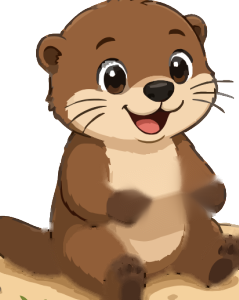
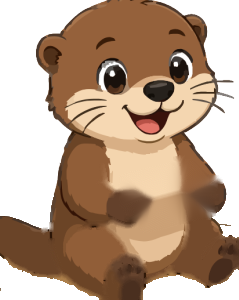
Bloppitopia: otter sits on land, island names everywhere (#31)
- The otter no longer floats off the end of the jetty: it sits beside Bloppit on
  the first spot that is actually on the island (on the beach by the jetty while
  Bloppit fishes, clear of the fishing line).
- The otter art had a patch of sand baked into its bottom that showed as a
  square in 3D; cut out (art URL versioned so devices fetch the new one).
- The sea card, the drawn island (no WebGL), the jetty card and old links now use
  the five real islands: Otterwood, Brainpeak, Sunrise Shores, Blitz Bay,
  Brickworks Island, with the same counts as the 3D world. No more Weekly Ferry,
  Creator Workshop, Brain Island, Friendship Harbour or Blitz Speedway.
- bloppit.com's Bloppitopia card and the 1.1 App Store text describe the new
  world (otter arrives, Home Island, five islands, outfits).

Claude-Session: https://claude.ai/code/session_01SsDm8i8RYP4fD1LfrBDVAG

Changed region(s): [[0.5858, 0.9, 1.0, 1.0], [0.0, 0.84, 0.41, 1.0], [0.9079, 0.72, 1.0, 0.81]]

diff --git a/public/build/index.html b/public/build/index.html
@@ -1144,7 +1144,7 @@ body.on-home .tabs{visibility:hidden}
           <input type="radio" name="kind" id="kd-picture" value="picture"><label for="kd-picture">Picture</label>
         </div>
         <p class="note pic-only" style="margin:6px 0 0">A flat mosaic of tiles that looks like your photo, made on this device. The more tiles, the more lifelike.</p>
-        <p class="note photo-only" id="photo3dNote" style="margin:6px 0 0" hidden>Photos become brick pictures for now. 3D photo models are coming to the Creator Workshop.</p>
+        <p class="note photo-only" id="photo3dNote" style="margin:6px 0 0" hidden>Photos become brick pictures for now. 3D photo models are coming to Brickworks Island.</p>
       </div>
       <div class="field pic-only">
         <label for="pw">Detail <output id="pwOut"></output></label>
@@ -2444,7 +2444,7 @@ function addFiles(files){
   const imgs=[...files].filter(f=>f.type.startsWith('image/')); if(!imgs.length) return;
   track('creator_started');
   photos=photos.filter(p=>!p.sample);
-  // Q4: a photo becomes a brick picture (a mosaic made on this device). 3D photo models are off until the Creator Workshop.
+  // Q4: a photo becomes a brick picture (a mosaic made on this device). 3D photo models are off for now.
   if(S.kind!=='picture'){ S.kind='picture'; syncKind(); refreshHint(); }
   let left=imgs.length;
   imgs.forEach(f=>{
@@ -5845,7 +5845,7 @@ function pupBrick(n,ci){ const c=(PUP_COLORS[ci]||PUP_COLORS[0]).c, B=PUP_BRICK,
 var PUP_ROUND='-16 -38 272 272';  // a round badge: head and brick both inside the circle
 function pupColorOf(o){ return o&&Number.isInteger(o.pupColor)&&o.pupColor>=0&&o.pupColor<PUP_COLORS.length?o.pupColor:0; }
 // The layers alone (for the island, which places them itself), and as a picture. opt: ci colour, n studs, vb crop.
-function pupLayers(ci,n,o){ const a=o?accSVG(o):{under:'',over:''}; return `<image href="/art/pup-body.png" width="239" height="300"/>${a.under}${pupBrick(n,ci)}<image href="/art/pup-paws.png" width="239" height="300"/>${a.over}`; }
+function pupLayers(ci,n,o){ const a=o?accSVG(o):{under:'',over:''}; return `<image href="/art/pup-body.png?v=2" width="239" height="300"/>${a.under}${pupBrick(n,ci)}<image href="/art/pup-paws.png" width="239" height="300"/>${a.over}`; }
 function pupFig(o,opt){ opt=opt||{}; const ci=opt.ci!=null?opt.ci:pupColorOf(o), n=opt.n||(o&&o.log?pupStage(o)+1:1);
   return `<svg class="pupfig${opt.cls?' '+opt.cls:''}" viewBox="${opt.vb||'0 -40 239 340'}" preserveAspectRatio="${opt.par||'xMidYMid meet'}" aria-hidden="true" focusable="false">${pupLayers(ci,n,o)}</svg>`; }
 // A name the child typed: letters in any language, spaces, ' and -, at most 14 characters (same rule as the server)
@@ -6062,15 +6062,15 @@ function decorSVG(id,x,y){
   }
   return '';
 }
-// The islands nearby, in a row across the sea below Bloppitopia (x centres), Friendship Harbour by the jetty
-const NEARBY_AT={ferry:110,workshop:300,brain:500,speedway:694,harbour:893};
+// The five islands, in a row across the sea below Bloppitopia (x centres), Otterwood by the jetty
+const NEARBY_AT={sunrise:110,brickworks:300,brainpeak:500,blitzbay:694,otterwood:893};
 function islandsNearby(){
   const P=[];
   P.push('<g fill="none" stroke="#fff" stroke-width="3" stroke-dasharray="2 9" stroke-linecap="round" opacity=".65" pointer-events="none">'
     +Object.values(NEARBY_AT).map(x=>{ const [tx,ty]=x===890?[958,476]:[Math.max(200,Math.min(820,x)),552]; return `<path d="M${x} 610 Q ${(x+tx)/2} ${(610+ty)/2+6} ${tx} ${ty}"/>`; }).join('')+'</g>');
   for(const d of destinations()){ const x=NEARBY_AT[d.id]; if(x==null) continue;
-    const art=destSVG(d.id,d.st).replace(/^<svg[^>]*>|<\/svg>$/g,'').replace('<rect y="56" width="72" height="16" fill="#5FAEE6" opacity=".6"/>','');
-    P.push(`<g class="is-near" data-info="dest:${d.id}">
+    const art=destSVG(d.art,d.st).replace(/^<svg[^>]*>|<\/svg>$/g,'').replace('<rect y="56" width="72" height="16" fill="#5FAEE6" opacity=".6"/>','');
+    P.push(`<g class="is-near" data-info="isle:${d.id}">
       <ellipse cx="${x}" cy="684" rx="86" ry="22" fill="#8FD0EC" opacity=".8"/><ellipse cx="${x}" cy="680" rx="74" ry="17" fill="#E3C99A"/><ellipse cx="${x}" cy="677" rx="70" ry="14" fill="#F1DFBC"/>
       <g transform="translate(${x-79} 545) scale(2.2)">${art}</g>
       <g transform="translate(${x} 702)"><rect x="${-(d.name.length*5.2+12)}" y="-16" width="${d.name.length*10.4+24}" height="30" rx="15" fill="#14202C" opacity=".85"/><text x="0" y="5" text-anchor="middle" font-family="Nunito,sans-serif" font-weight="800" font-size="19" fill="#fff">${escapeHTML(d.name.replace("Friendship ","Friendship "))}</text></g></g>`); }
@@ -6160,7 +6160,7 @@ function islandSVG(o,opts){
   P.push(`<g data-info="bloppit"><ellipse cx="${bx}" cy="${by+2}" rx="26" ry="6" fill="#000" opacity=".12"/><image href="/art/bud-3q.png" x="${bx-36}" y="${by-96}" width="72" height="96" preserveAspectRatio="xMidYMax meet"/></g>`);
   if(n>0) P.push(`<g data-info="pup"><ellipse cx="${bx+54}" cy="${by+2}" rx="${ph*.34}" ry="5" fill="#000" opacity=".12"/><g class="is-bob"><g transform="translate(${(bx+54-ph*.4+(ph*.8-239*ph/300)/2).toFixed(1)} ${by-ph}) scale(${(ph/300).toFixed(4)})">${pupLayers(pupColorOf(o),ps+1,o)}</g></g></g>`);
   if(stage===0) P.push('<g transform="translate(250 372)"><rect x="-74" y="-30" width="148" height="40" rx="12" fill="#fff" stroke="#14202C" stroke-width="2"/><path d="M-30 10 l-12 14 l24 -14z" fill="#fff" stroke="#14202C" stroke-width="2"/><rect x="-29" y="8" width="22" height="4" fill="#fff"/><text x="0" y="-4" text-anchor="middle" font-family="Nunito,sans-serif" font-weight="800" font-size="15" fill="#14202C">Finish a build!</text></g>');
-  // The islands nearby, out in the sea: each drawn at its stage, with a dotted boat route home
+  // The five islands, out in the sea: each drawn at its stage, with a dotted boat route home
   P.push(islandsNearby());
   let out=`<svg viewBox="0 0 1000 720" xmlns="http://www.w3.org/2000/svg" xmlns:xlink="http://www.w3.org/1999/xlink" aria-label="Bloppitopia at the ${ISLAND_STAGES[stage].name} stage">${P.join('')}</svg>`;
   // A second copy on the page (the menu's) gets its own ids, so its gradients never point into a hidden copy
@@ -6250,9 +6250,7 @@ function islandInfo(id,o){
       if(arg==='hut') return place(1,'The hut','Your first model stand');
       if(arg==='workshop') return place(2,'Bloppit’s workshop','Three model stands, and paths across the island');
       if(arg==='village') return place(3,'The village','Twelve model stands, the well, the bunting and the jetty');
-      if(arg==='jetty'){ const d=destinations().find(x=>x.id==='harbour'); return {title:'The jetty',hint:`Boats to Friendship Harbour · ${d.names[d.st]}`,
-        rows:[['Goes to','Friendship Harbour, one of the islands nearby'],['Harbour level',`${d.st} of 3: ${d.names[d.st]}`],['Friend builds',String(d.n)],...(d.nx?[['Next',`${d.names[d.st+1]} at ${d.nx}`]]:[])],
-        bar:d.nx?{pct:Math.max(4,Math.round(100*d.n/d.nx)),label:`${d.nx-d.n} more friend build${d.nx-d.n===1?'':'s'}`}:null, actions:[{label:'Go to Friendship Harbour',fn:d.go,primary:true}]}; }
+      if(arg==='jetty'){ const f=friendCount(o); return {title:'The jetty',hint:'Home Island’s harbour',rows:[['Boats','One for every build with a friend'],['Friend builds',String(f)]],actions:[{label:'Build with a friend',fn:()=>setTab('mp','hub'),primary:true}]}; }
       break;
     case 'land': {
       const nx=ISLAND_STAGES[st+1];
@@ -6261,7 +6259,7 @@ function islandInfo(id,o){
         rows:[['Level',`${st} of 3: ${ISLAND_STAGES[st].name}`],['Builds finished',String(n)],['Models standing',`${shown.list.length} of ${shown.cap} stands`],['Decorations',`${(o.decor||[]).length} of ${DECOR.length}`],['Next',nx?`The ${nx.name.toLowerCase()} at ${nx.at} builds`:'Everything is built']],
         bar:nx?bar(ISLAND_STAGES[st].at,nx.at):null, actions:n?[{label:'✨ Decorate',fn:()=>$('#isDecor').click()}]:[]};
       if(arg==='meadow') return {...place(3,'The meadow','Where the village grows'),title:'The meadow',hint:n>=10?'The village stands here':'The village grows here at 10 builds'};
-      if(arg==='sea') return {title:'The sea',hint:'Five islands nearby: tap one',rows:destinations().map(d=>[d.name,`${d.names[d.st]}${d.nx?` · ${d.nx-d.n} to go`:' · fully grown'}`])};
+      if(arg==='sea') return {title:'The sea',hint:'Five islands around Home Island: tap one',rows:destinations().map(d=>[d.name,d.n?(d.st===3?`${d.milestone} ✓`:`${Math.min(d.n,d.total)} of ${d.total}${d.next?` · next: ${d.next}`:''}`):`In the mist · play ${ISLES[d.id].game} to find it`])};
       if(arg==='rocks') return {title:'The rocks',hint:'Crabs like it here',rows:[['Good for','Crabs and rock pools (in the decorations)']],actions:n?[{label:'✨ Decorate',fn:()=>$('#isDecor').click()}]:[]};
       if(arg==='lighthouse') return {title:'The lighthouse',hint:'It lights the way home',rows:[['Stands on','A rock off Bloppitopia'],['Job','Lighting the way home for every boat']]};
       if(arg==='balloon') return {title:'The balloon',hint:'Floating over Bloppitopia',rows:[['Up here','A hot-air balloon, drifting round'],['Tip','Turn the world with one finger, pinch to zoom']]};
@@ -6269,13 +6267,7 @@ function islandInfo(id,o){
       break; }
     case 'decor': { const d=DECOR.find(x=>x.id===arg)||{name:arg,cost:0}, gift=(o.free||[]).includes(arg);
       return {title:d.name,hint:gift?'A gift for a Weekly Bloppit':`Bought for ★ ${d.cost}`,rows:[['How you got it',gift?'A gift for finishing a Weekly Bloppit':`Bought with ${d.cost} Build Stars`],['Decorations',`${(o.decor||[]).length} of ${DECOR.length} on Bloppitopia`]]}; }
-    case 'dest': { const d=destinations().find(x=>x.id===arg); if(!d) break;
-      const grows={ferry:'Every Weekly Bloppit you finish',workshop:'Builds from your own photos and drawings',brain:'Brain Trail levels you finish',harbour:'Builds with friends: challenges, relays and crews',speedway:'Blitz races you win against the Longtails'}[d.id];
-      const go={ferry:'This week’s Bloppit',workshop:'Make your own',brain:'Play the Brain Trail',harbour:'Build with a friend',speedway:'Race a Longtail'}[d.id];
-      return {title:d.name,hint:`${d.names[d.st]} · ${d.n} ${d.unit}${d.n===1?'':'s'}`,icon:destSVG(d.id,d.st),
-        rows:[['Level',`${d.st} of 3: ${d.names[d.st]}`],['Grows with',grows],['So far',`${d.n} ${d.unit}${d.n===1?'':'s'}`],['Next',d.nx?`${d.names[d.st+1]} at ${d.nx}`:'Fully grown']],
-        bar:d.nx?{pct:Math.max(4,Math.round(100*d.n/d.nx)),label:`${d.nx-d.n} more to the ${d.names[d.st+1].toLowerCase()}`}:null,
-        actions:[{label:go,fn:d.go,primary:true}]}; }
+    case 'dest': { const m={ferry:'sunrise',workshop:'brickworks',brain:'brainpeak',speedway:'blitzbay',harbour:'otterwood'}[arg]; if(m) return islandInfo('isle:'+m,o); break; }
     case 'isle': { const I=ISLES[arg]; if(!I) break; const c=isleCount(arg,o), P=PIECES[arg], total=P[P.length-1].at, built=P.filter(x=>c>=x.at), next=P.find(x=>c<x.at);
       if(!c) return {title:'A misty island',hint:`Play ${I.game} to discover it`,rows:[['What’s there','Nobody knows yet. It’s hidden in the mist.'],['To discover it',`Finish your first ${I.unit}`]],actions:[{label:I.play,fn:I.go,primary:true}]};
       return {title:I.name,hint:`${I.game} · ${Math.min(c,total)} of ${total}`,rows:[['Grows with',I.grows],['Built',`${built.length} of ${P.length} pieces`],...(next?[['Next piece',`${next.name}: ${next.at-c} more ${I.unit}${next.at-c===1?'':'s'}`]]:[]),['Milestone',c>=total?`${I.milestone} ✓`:`${I.milestone} at ${total}`]],
@@ -6341,6 +6333,8 @@ function destSVG(id,st){
   const base='<ellipse cx="36" cy="64" rx="30" ry="6" fill="#000" opacity=".1"/><ellipse cx="36" cy="60" rx="30" ry="9" fill="#F1DFBC"/>';
   const sea='<rect y="56" width="72" height="16" fill="#5FAEE6" opacity=".6"/>';
   switch(id){
+    case 'otterwood': { const tree=(x,s2)=>`<g transform="translate(${x} 58) scale(${s2})"><rect x="-2" y="-10" width="4" height="10" fill="#7A4E2E"/><path d="M0 -34 L12 -10 L-12 -10 Z" fill="#3F8F33"/><path d="M0 -42 L9 -22 L-9 -22 Z" fill="#5DBB46"/></g>`;
+      return `<svg viewBox="0 0 72 72">${sea}${base}${tree(18,.8)}${st>=1?tree(54,.8):''}${st>=2?tree(28,1)+tree(46,.9):''}${st>=3?'<g transform="translate(36 40)"><rect x="-9" y="-8" width="18" height="10" fill="#A0663A" stroke="#5A3A20" stroke-width="1"/><path d="M-11 -8 L0 -16 L11 -8 Z" fill="#D2352B"/><rect x="-2" y="-5" width="4" height="7" fill="#5A3A20"/></g>':''}</svg>`; }
     case 'ferry': return `<svg viewBox="0 0 72 72">${sea}<g transform="translate(36 52)"><path d="M-26 0 L26 0 L20 10 L-20 10 Z" fill="#0055BF"/><rect x="-18" y="-12" width="36" height="12" rx="2" fill="#F4F4F4"/>${st>=1?'<rect x="-14" y="-9" width="6" height="5" fill="#6FB7E8"/><rect x="-4" y="-9" width="6" height="5" fill="#6FB7E8"/><rect x="6" y="-9" width="6" height="5" fill="#6FB7E8"/>':''}${st>=2?'<rect x="-6" y="-22" width="12" height="10" rx="2" fill="#008F9B"/><path d="M-30 -2 l-10 -6 M30 -2 l10 -6" stroke="#F4BC22" stroke-width="3"/>':''}${st>=3?'<rect x="2" y="-30" width="2" height="8" fill="#14202C"/><path d="M4 -30 l10 3 l-10 3z" fill="#D2352B"/><g class="is-smoke" fill="#fff" opacity=".7"><circle cx="0" cy="-28" r="4"/></g>':''}</g></svg>`;
     case 'workshop': return `<svg viewBox="0 0 72 72">${base}<g transform="translate(36 58)">${st>=1?'<rect x="-22" y="-26" width="44" height="26" fill="#C58B5A" stroke="#8A5A3B" stroke-width="1.5"/><path d="M-26 -26 L0 -44 L26 -26 Z" fill="#5B6778"/><rect x="-5" y="-14" width="10" height="14" fill="#5B6778"/>':'<rect x="-16" y="-18" width="32" height="18" fill="none" stroke="#B9C2CF" stroke-width="1.5" stroke-dasharray="3 3"/>'}${st>=2?'<rect x="-20" y="-22" width="12" height="9" fill="#FFF0B0" stroke="#8A5A3B"/><rect x="8" y="-22" width="12" height="9" fill="#FFF0B0" stroke="#8A5A3B"/><rect x="12" y="-42" width="6" height="12" fill="#8A5A3B"/>':''}${st>=3?'<g transform="translate(0 -50)"><circle r="6" fill="#F4BC22"/><path d="M0 -9 v-4 M0 9 v4 M-9 0 h-4 M9 0 h4" stroke="#F4BC22" stroke-width="2"/></g><rect x="-30" y="-10" width="8" height="10" fill="#D2352B"/><rect x="22" y="-8" width="8" height="8" fill="#0055BF"/>':''}</g></svg>`;
     case 'brain': return `<svg viewBox="0 0 72 72">${base}<g transform="translate(36 58)">${st>=1?'<rect x="-18" y="-22" width="36" height="22" fill="#FFF8EA" stroke="#C9A96E" stroke-width="1.5"/><path d="M-22 -22 L0 -38 L22 -22 Z" fill="#D2352B"/><rect x="-4" y="-12" width="8" height="12" fill="#8A5A3B"/>':'<rect x="-16" y="-18" width="32" height="18" fill="none" stroke="#B9C2CF" stroke-width="1.5" stroke-dasharray="3 3"/>'}${st>=2?'<rect x="-3" y="-50" width="6" height="12" fill="#5B6778"/><circle cx="0" cy="-52" r="4" fill="#F4BC22"/><rect x="-26" y="-14" width="8" height="14" fill="#FFF8EA" stroke="#C9A96E"/><rect x="18" y="-14" width="8" height="14" fill="#FFF8EA" stroke="#C9A96E"/>':''}${st>=3?'<g transform="translate(22 -40)"><circle r="9" fill="#5B6778"/><path d="M0 -9 A9 9 0 0 1 9 0 L0 0 Z" fill="#14202C"/><rect x="-1" y="-16" width="2" height="8" fill="#14202C" transform="rotate(35)"/></g><circle cx="-22" cy="-46" r="1.5" fill="#F4BC22"/><circle cx="-14" cy="-52" r="1.2" fill="#F4BC22"/>':''}</g></svg>`;
@@ -6349,18 +6343,12 @@ function destSVG(id,st){
   }
   return '';
 }
+// The five adventure islands, as a short list (the drawn island without WebGL, the sea's card). Same counts as 3D.
+const ISLE_ART={otterwood:'otterwood',brainpeak:'brain',sunrise:'ferry',blitzbay:'speedway',brickworks:'workshop'};
 function destinations(){
-  const o=worldStore(), g=gameStore(), B=Object.entries(o.builds);
-  const weeklies=weeklyTotal(), creations=(o.draw||[]).length+B.filter(([k])=>k.startsWith('p:')).length, brain=Object.keys(bestOf(g,'brain')).length;
-  const friends=chMine().length+B.filter(([k])=>k.startsWith('r:')).length+(crewMine||[]).filter(x=>x.me).length, wins=B.filter(([,b])=>b.k==='blitz').length;
-  const stage=(n,a,b,c)=>n>=c?3:n>=b?2:n>=a?1:0, next=(n,a,b,c)=>n>=c?null:n>=b?c:n>=a?b:a;
-  return [
-    {id:'ferry',name:'Weekly Ferry',n:weeklies,unit:'Weekly stamp',st:stage(weeklies,1,4,12),nx:next(weeklies,1,4,12),names:['Ferry stop','Ferry','Ferry line','Grand terminal'],go:()=>setTab('daily')},
-    {id:'workshop',name:'Creator Workshop',n:creations,unit:'creation',st:stage(creations,1,5,15),nx:next(creations,1,5,15),names:['Empty lot','Shed','Studio','Invention lab'],go:()=>{ pickPuzzle('quick','top'); requestAnimationFrame(()=>$('#drawCard').scrollIntoView({behavior:reduceMotion?'auto':'smooth',block:'start'})); }},
-    {id:'brain',name:'Brain Island',n:brain,unit:'Brain Trail level',st:stage(brain,1,5,14),nx:next(brain,1,5,14),names:['Empty lot','Schoolhouse','Academy','Observatory'],go:()=>homeGo('brain')},
-    {id:'harbour',name:'Friendship Harbour',n:friends,unit:'friend build',st:stage(friends,1,5,15),nx:next(friends,1,5,15),names:['Jetty','Jetty with a boat','Harbour','Marina'],go:()=>setTab('mp','hub')},
-    {id:'speedway',name:'Blitz Speedway',n:wins,unit:'Longtail win',st:stage(wins,1,5,15),nx:next(wins,1,5,15),names:['Dirt track','Starting line','Circuit','Stadium'],go:()=>homeGo('cpu')},
-  ];
+  const o=worldStore();
+  return Object.keys(ISLES).map(id=>{ const I=ISLES[id], P=PIECES[id], total=P[P.length-1].at, c=isleCount(id,o), nxP=P.find(x=>x.at>c);
+    return {id,art:ISLE_ART[id],name:I.name,n:c,total,unit:I.unit,st:!c?0:c<total/2?1:c<total?2:3,nx:nxP?nxP.at:null,next:nxP?nxP.name:null,milestone:I.milestone,go:I.go}; });
 }
 /* ---------- Bloppitopia in 3D (renderer, helpers, models, controls) ---------- */
 var ISL3={ok:null};   // var: the page switcher can look at it before this line runs
@@ -6503,7 +6491,7 @@ function pupTex3(o){
     fill(B.side,pupShade(c,-.35)); fill(B.front,pupShade(c,-.12)); fill(B.top,pupShade(c,.18));
     for(const t of B.studs[n]){ fill(t.side,pupShade(c,-.2)); fill(t.cap,pupShade(c,.28)); x.fillStyle='rgba(255,255,255,.35)'; x.fill(new Path2D(t.hi)); }
     x.drawImage(paws,0,0); accCanvas(x,o,'over'); tex.needsUpdate=true; isl3Loaded(); };
-  ISL3.pending=(ISL3.pending||0)+1; body.onload=draw; paws.onload=draw; body.src='/art/pup-body.png'; paws.src='/art/pup-paws.png'; ISL3.pupT[key]=tex; return tex;
+  ISL3.pending=(ISL3.pending||0)+1; body.onload=draw; paws.onload=draw; body.src='/art/pup-body.png?v=2'; paws.src='/art/pup-paws.png'; ISL3.pupT[key]=tex; return tex;
 }
 // A finished model as bricks (or its picture when the bricks aren't on this device), sized to stand on a stand
 const geo3=new Map();
@@ -6551,7 +6539,7 @@ function isl3Init(){
     const sea=new THREE.Mesh(new THREE.PlaneGeometry(400,400),new THREE.MeshStandardMaterial({color:new THREE.Color('#22B4EE').convertSRGBToLinear(),roughness:.5}));
     sea.rotation.x=-Math.PI/2; sea.position.y=-1.3; sea.receiveShadow=true; sea.userData.info='land:sea'; sc.add(sea);
     ISL3.r=r; ISL3.sc=sc; ISL3.cam=camera; ISL3.ok=true; ISL3.sun=sunL; ISL3.hemi=hemi; ISL3.sea=sea;
-    r.domElement.className='is3-canvas'; r.domElement.setAttribute('role','img'); r.domElement.setAttribute('aria-label','Bloppitopia and the islands nearby. Drag to turn, pinch to zoom, tap anything to see what it is.');
+    r.domElement.className='is3-canvas'; r.domElement.setAttribute('role','img'); r.domElement.setAttribute('aria-label','Bloppitopia: Home Island and the five islands around it. Drag to turn, pinch to zoom, tap anything to see what it is.');
     isl3Events(r.domElement);
     const ctl=new THREE.OrbitControls(camera,r.domElement); ctl.enableDamping=true; ctl.dampingFactor=.09; ctl.enablePan=true; ctl.screenSpacePanning=false; ctl.panSpeed=.8;
     ctl.minDistance=9; ctl.maxDistance=70; ctl.minPolarAngle=.35; ctl.maxPolarAngle=1.12; ctl.target.set(0,0,-1.5);
@@ -6974,7 +6962,8 @@ function isl3Characters(o,W){
   }
   g.position.set(at[0],0,at[1]); tag3(g,'bloppit'); W.add(g);
   if(n>0||ISL3.arrival||pupName(o)){ const ps=pupStage(o), p=new THREE.Sprite(new THREE.SpriteMaterial({map:pupTex3(o),transparent:true,alphaTest:.15})); const h=[1.3,1.5,1.7][ps]*346/300; p.scale.set(h*239/346,h,1); p.center.set(.5,0); p.position.y=TOP3;
-    const pg=new THREE.Group(); pg.add(p); pg.userData.bob=2; pg.position.set(at[0]+1.25,0,at[1]+.35); tag3(pg,'pup'); ISL3.pupG=pg; W.add(pg); }
+    const pg=new THREE.Group(); pg.add(p); pg.userData.bob=2; const onIsle=(x,z)=>inPoly(x,z,scalePoly(HOMEP,0,0,.92)), offs=r==='fish'&&!ISL3.arrival?[[-1.15,-1.7],[-1.25,-2.6],[-.6,-3.4],[.9,-3.2]]:[[1.25,.35],[-1.25,.35],[1.2,-.9],[-1.2,-.9],[0,-1.6]];
+    const [ox,oz]=offs.find(([dx,dz])=>onIsle(at[0]+dx,at[1]+dz))||[-(at[0])*.25,-(at[1])*.25]; pg.position.set(at[0]+ox,0,at[1]+oz); tag3(pg,'pup'); ISL3.pupG=pg; W.add(pg); }
 }
 function zzzTex3(){ const c=document.createElement('canvas'); c.width=96; c.height=64; const x=c.getContext('2d'); x.font='bold 30px system-ui,sans-serif'; x.fillStyle='#FFFFFF'; x.strokeStyle='#14202C'; x.lineWidth=4; for(const [t,a,b] of [['z',8,58],['z',34,40],['Z',58,26]]){ x.strokeText(t,a,b); x.fillText(t,a,b); } const t=new THREE.CanvasTexture(c); return t; }
 
@@ -7178,7 +7167,7 @@ function renderIsland(){
     $('#isStage').innerHTML=`${escapeHTML(pupName(o)||'Your otter')} · Level ${lv} ${PUP_STAGES[pupStage(o)].name}<small>${n} build${n===1?'':'s'} finished · ${islandsOpen(o).length} of 5 islands · ${worldStars(o)} Build Star${worldStars(o)===1?'':'s'} to spend</small>`;
     $('#isNext').innerHTML=g?`<span>${escapeHTML(g.text)}</span><span class="bar"><i style="width:${Math.max(4,Math.round(100*g.frac))}%"></i></span>`:'<span>Every island is complete. What a world!</span>'; }
   else $('#isStage').innerHTML=`${ISLAND_STAGES[stage].name}<small>${n} build${n===1?'':'s'} finished · ${worldStars(o)} Build Star${worldStars(o)===1?'':'s'} to spend</small>`;
-  if(!ISL3.ok) $('#isNext').innerHTML=next?`<span>${next.at-n} more build${next.at-n===1?'':'s'} to the ${next.name}</span><span class="bar"><i style="width:${Math.max(4,Math.round(100*(n-ISLAND_STAGES[stage].at)/(next.at-ISLAND_STAGES[stage].at)))}%"></i></span>`:'<span>The whole village is built. Boats from the jetty go to Friendship Harbour.</span>';
+  if(!ISL3.ok) $('#isNext').innerHTML=next?`<span>${next.at-n} more build${next.at-n===1?'':'s'} to the ${next.name}</span><span class="bar"><i style="width:${Math.max(4,Math.round(100*(n-ISLAND_STAGES[stage].at)/(next.at-ISLAND_STAGES[stage].at)))}%"></i></span>`:'<span>Your village is built. Now grow the five islands around it.</span>';
   $('#isNote').textContent=n?`${pupName(o)||'Your pup'} and Bloppit are home. Tap anything to see what it is${n>1?`, and drag a model anywhere on the ${ISL3.ok?'grass':'sand'}`:''}${ISL3.ok?'. Tap an island to fly there; turn with one finger, pinch to zoom in where you like, slide two fingers to move':''}.`:ISL3.ok?`${pupName(o)?pupName(o)+'’s':'Your'} home is waiting to be built. Tap anything to see what it is.`:'Finish any build and the first hut rises from the sand. Tap anything to see what it is.';
   $('#isCard').hidden=stage<3; $('#isDecor').hidden=!n;
   renderDecorShop(); renderBuilds();

diff --git a/public/index.html b/public/index.html
@@ -329,7 +329,7 @@ footer{border-top:2px solid var(--ink);background:var(--paper)}
       <article class="card lift">
         <span class="tag" style="background:#FFE7B8">Your island</span>
         <h3>🏝 Bloppitopia</h3>
-        <p>Every finished model lands on your own island. A hut rises after the first build, a workshop after three, a village after ten. Your pup grows with you, and Build Stars buy the decorations. Nothing is ever for sale.</p>
+        <p>A little otter arrives by boat, and your first build finishes its home. Every build after that grows your world: Home Island becomes a village, and five islands rise from the mist, Otterwood, Brainpeak, Sunrise Shores, Blitz Bay and Brickworks Island, each growing with its own game. Your otter levels up and earns outfits. Nothing is ever for sale.</p>
         <a class="card-link" href="/build/#island">Visit the island →</a>
       </article>
       <article class="card lift">

diff --git a/mobile/store/listing.md b/mobile/store/listing.md
@@ -31,7 +31,7 @@ promise it makes. **1.1** (by Mon 7 Dec) adds the island and the pup. Paste the 
 
 **1.0:** A calm brick puzzle game for families. Finish a model in minutes, scored on how cleanly you build. A new puzzle every week. Free, no ads, no account.
 
-**1.1:** Every build you finish grows your own island. Adopt a pup and watch it grow with you. A new puzzle every week. Free, no ads, no account.
+**1.1:** Every build you finish grows your own world of islands, and your otter grows with you. A new puzzle every week. Free, no ads, no account.
 
 ## Description (4000)
 
@@ -79,16 +79,17 @@ Bloppit is an independent project and is not affiliated with any toy brick brand
 
 Bloppit is a calm brick puzzle game for families. Snap bricks together on screen, page by page, and finish a model in minutes, scored on how cleanly you build.
 
-Every build you finish grows your own island. Adopt a pup and watch it grow with you.
+Every build you finish grows your own world. A little otter arrives by boat, your first build finishes its home, and five islands wait in the mist.
 
 A new puzzle every week, a library to explore, and Blitz races against the Longtails.
 
 Free, no ads, no tracking, no account needed.
 
-YOUR ISLAND
-• Every finished model lands on Bloppitopia: a hut after the first build, a workshop after three, a village after ten
-• Your pup grows with you: Pup, Splash, Legend
-• Build Stars buy the island's decorations. Nothing is ever for sale, and nothing is ever lost
+YOUR WORLD: BLOPPITOPIA
+• Home Island grows with every build: a cottage, a garden, a workshop, a museum of your best models, then a lively village
+• Five islands rise from the mist as you play: Otterwood (Otter Trail), Brainpeak (Brain Trail), Sunrise Shores (Weekly Bloppit), Blitz Bay (Blitz) and Brickworks Island (your own creations)
+• Your otter grows with you, Pup, Splash, Legend, and earns outfits; you pick the colours
+• Build Stars buy decorations. Nothing is ever for sale, and nothing is ever lost
 
 (then the 1.0 sections from WEEKLY BLOPPIT down, unchanged)
 
@@ -120,7 +121,7 @@ retake them after any visual change. Preview video: capture the snap, a finish a
 
 **1.0:** Bloppit's first App Store release.
 
-**1.1:** Your island! Every build you finish grows Bloppitopia, and your pup grows with you. Build Stars buy decorations. Plus the From Memory star and four new Weeklies.
+**1.1:** Bloppitopia! Every build you finish grows your world: Home Island and five islands to discover. Your otter grows with you and earns outfits. Build Stars buy decorations. Plus the From Memory star and four new Weeklies.
 
 ## App Review notes
 
